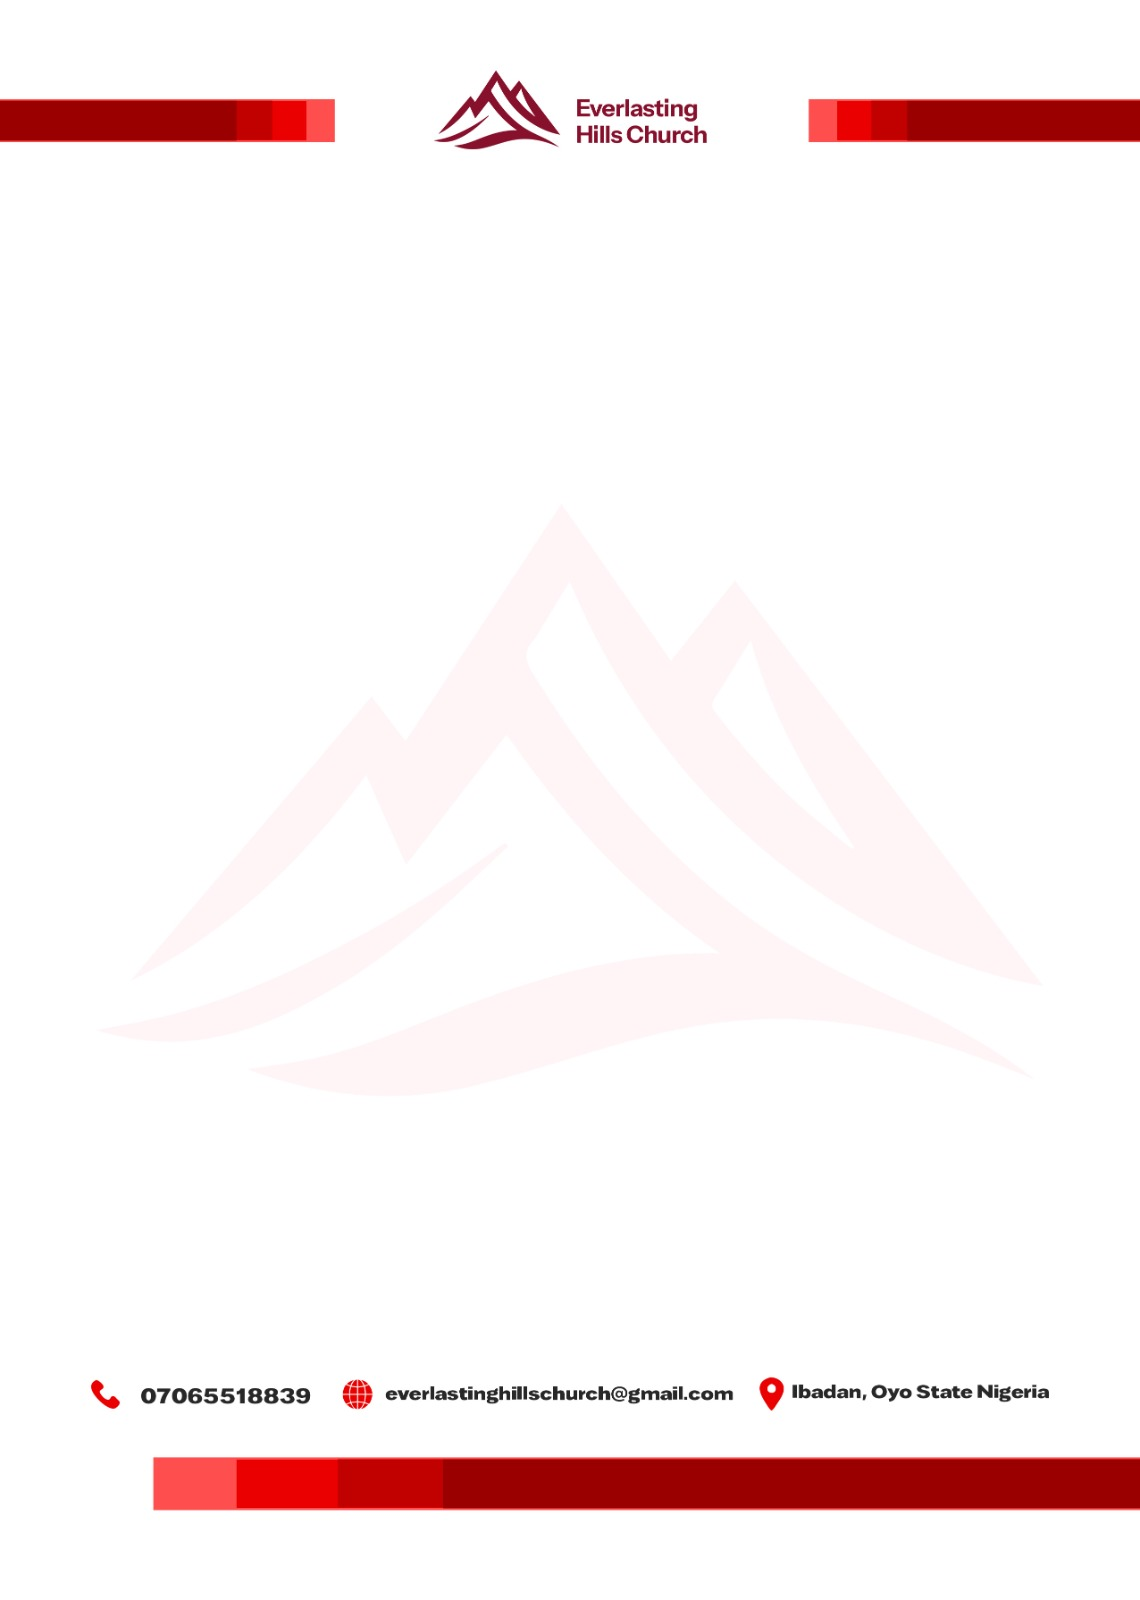
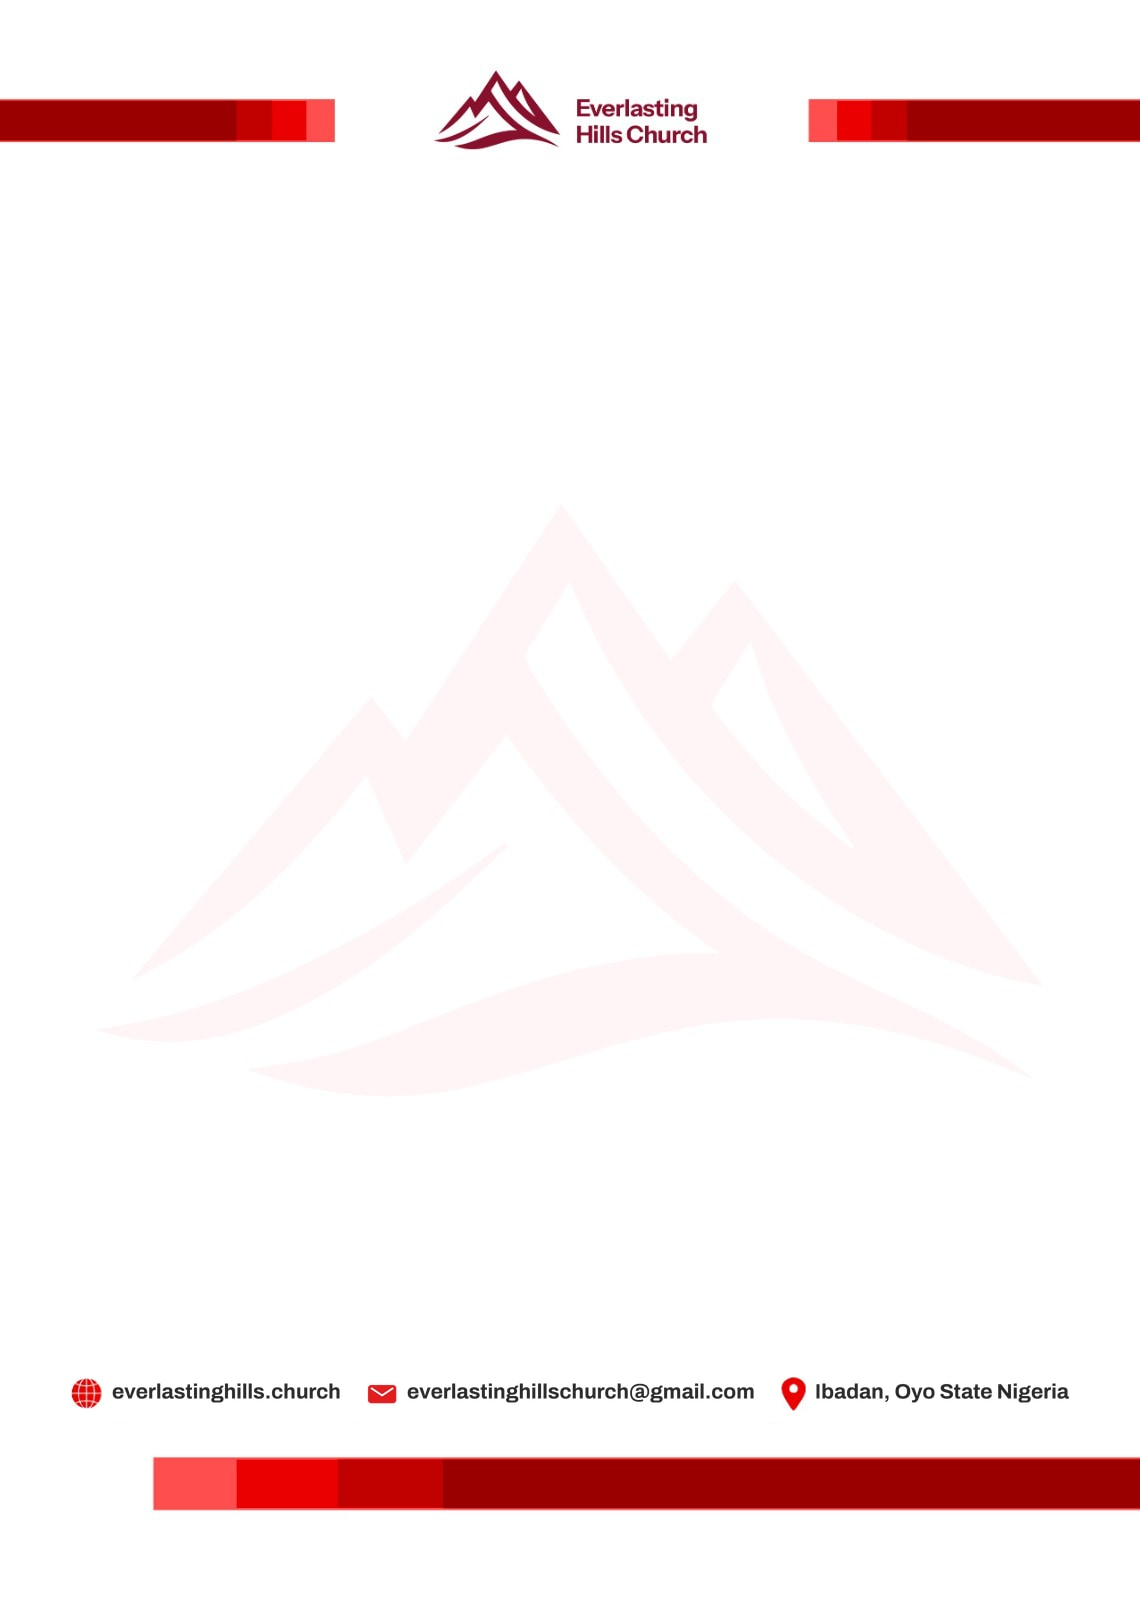
Pre-marital letters: the Senior Pastors' signed sign-off, the new letterhead, one page each
- Version 3 of both letters: version 2's wording, ending with "Yours in
  Christ", Pastor Opeyemi and Faith Peter's signature, and their names as
  Senior Pastors. A new signoff block keeps it on one page and draws the
  signature as large as the page allows (38 to 56 pt).
- The letterhead's footer now gives the website, email and location.
- The screening tests and laboratories run in two columns when every item
  fits on one line, so each letter fits on one page; the safe area's
  bottom follows the new footer (714 pt, the footer starts at 724.6 pt).
- An untouched, unapproved v1 or v2 seed is upgraded to v3 on start-up,
  still a draft for a Pastor to approve; edited or approved wording is
  left alone.
- The Letters editor can edit the sign-off's closing and lines.

Changed region(s): [[0.0614, 0.8438, 0.9211, 0.9062]]

diff --git a/ehc-backend/src/premarital/documents/letter-renderer.ts b/ehc-backend/src/premarital/documents/letter-renderer.ts
@@ -10,14 +10,16 @@ import { fill, type Block, type LetterVars } from './letter-blocks';
  * Builds the letters as PDFs on the EHC letterhead with pdf-lib (no browser).
  * The letterhead is a full-page background on every page; text stays inside
  * the safe area measured from the asset (header ink ends 78 pt from the top,
- * the footer contact line starts at 725 pt), so the footer details are never
- * typed again.
+ * the footer contact line starts at 724.6 pt, with the website since
+ * 2026-11-23), so the footer details are never typed again.
  */
 export const PAGE = { width: 595.28, height: 841.89 } as const;
 /** Measured from the letterhead: points from the top-left corner. */
-export const SAFE = { top: 106, bottom: 700, left: 56, right: 595.28 - 56 } as const;
+export const SAFE = { top: 106, bottom: 714, left: 56, right: 595.28 - 56 } as const;
 
 export const DEFAULT_LETTERHEAD = 'assets/letterhead/ehc-letterhead-a4.jpg';
+/** The Senior Pastors' signature (ink on transparency), drawn by the sign-off block. */
+export const SIGNATURE = 'assets/signature/senior-pastors.png';
 const FONT_DIR = 'assets/fonts';
 
 const INK = { r: 0.12, g: 0.12, b: 0.13 };
@@ -46,6 +48,7 @@ interface Assets {
   semibold: Buffer;
   italic: Buffer;
   serif: Buffer;
+  signature: Buffer;
 }
 type Glyphs = { hasGlyphForCodePoint(cp: number): boolean };
 interface Face {
@@ -79,14 +82,15 @@ export class LetterRenderer {
 
   private load(): Promise<Assets> {
     this.assets ??= (async () => {
-      const [letterhead, regular, semibold, italic, serif] = await Promise.all([
+      const [letterhead, regular, semibold, italic, serif, signature] = await Promise.all([
         readFile(this.letterheadPath),
         readFile(resolve(`${FONT_DIR}/InstrumentSans-Regular.ttf`)),
         readFile(resolve(`${FONT_DIR}/InstrumentSans-SemiBold.ttf`)),
         readFile(resolve(`${FONT_DIR}/InstrumentSans-Italic.ttf`)),
         readFile(resolve(`${FONT_DIR}/DMSerifDisplay-Regular.ttf`)),
+        readFile(resolve(SIGNATURE)),
       ]);
-      return { letterhead, isPng: letterhead[0] === 0x89, regular, semibold, italic, serif };
+      return { letterhead, isPng: letterhead[0] === 0x89, regular, semibold, italic, serif, signature };
     })().catch((err: unknown) => {
       this.assets = null;
       throw err;
@@ -111,6 +115,7 @@ export class LetterRenderer {
       face(a.serif),
     ]);
     const background: PDFImage = a.isPng ? await doc.embedPng(a.letterhead) : await doc.embedJpg(a.letterhead);
+    const signature: PDFImage = await doc.embedPng(a.signature);
     // No personal details in the file's own metadata.
     doc.setTitle(input.title);
     doc.setAuthor('Everlasting Hills Church');
@@ -250,23 +255,71 @@ export class LetterRenderer {
       y += o.after ?? 0;
     };
 
+    /**
+     * A numbered or bulleted list. Short items (each on one line at half the
+     * width) run in two columns, first half on the left, so a list of six
+     * tests takes three lines rather than six.
+     */
     const list = (items: string[], ordered: boolean) => {
       const indent = 18;
-      items.forEach((item, i) => {
-        const marker = ordered ? `${i + 1}.` : '•';
-        ensure(15);
+      const gap = 24;
+      const half = (SAFE.right - SAFE.left - gap) / 2;
+      const short = items.length > 2 || (items.length === 2 && !ordered);
+      const twoColumns =
+        short && items.every((item) => wrap(runsOf(fill(item, input.vars), regular, semibold), 10.5, half - indent).length === 1);
+      const draw = (item: string, i: number, x: number, width: number) => {
         const top = y;
-        page.drawText(marker, {
-          x: SAFE.left + 2,
-          y: PAGE.height - (y + 10.5),
-          size: 10.5,
-          font: regular.font,
-          color: color(INK),
+        page.drawText(ordered ? `${i + 1}.` : '•', { x: x + 2, y: PAGE.height - (y + 10.5), size: 10.5, font: regular.font, color: color(INK) });
+        mark(x + 2, x + 14, top, top + 13);
+        text(item, { x: x + indent, width: width - indent, after: 2 });
+      };
+      if (twoColumns) {
+        const rows = Math.ceil(items.length / 2);
+        ensure(rows * (10.5 * 1.45 + 2));
+        const start = y;
+        items.forEach((item, i) => {
+          const col = i < rows ? 0 : 1;
+          y = start + (i % rows) * (10.5 * 1.45 + 2);
+          draw(item, i, SAFE.left + col * (half + gap), half);
         });
-        mark(SAFE.left + 2, SAFE.left + 14, top, top + 13);
-        text(item, { x: SAFE.left + indent, width: SAFE.right - SAFE.left - indent, after: 2 });
-      });
+        y = start + rows * (10.5 * 1.45 + 2);
+      } else {
+        items.forEach((item, i) => {
+          ensure(15);
+          draw(item, i, SAFE.left, SAFE.right - SAFE.left);
+        });
+      }
       y += 6;
+    };
+
+    /**
+     * "Yours in Christ," the Senior Pastors' signature over a rule, then the
+     * names. Never split across pages. The signature is drawn as large as the
+     * page allows, from 56 pt (the letterhead design) down to 38 pt.
+     */
+    const SIG = { min: 38, max: 56, rule: 190, leading: 13, space: 6 };
+    const signoffHeight = (lines: string[], height = SIG.min) => 10.5 * 1.45 + 2 + height + 6 + lines.length * SIG.leading;
+    const signoff = (closing: string, lines: string[]) => {
+      ensure(signoffHeight(lines));
+      // Whatever room is left goes first to a little space above, then to a larger signature.
+      // (Less 3 pt, for the last line's descenders, which hang below its leading.)
+      const spare = Math.max(0, SAFE.bottom - y - signoffHeight(lines) - 3);
+      const space = Math.min(SIG.space, spare);
+      const height = Math.min(SIG.max, SIG.min + spare - space);
+      y += space;
+      text(closing, { after: 2 });
+      const width = height * (signature.width / signature.height);
+      page.drawImage(signature, { x: SAFE.left, y: PAGE.height - (y + height), width, height });
+      mark(SAFE.left, SAFE.left + width, y, y + height);
+      y += height + 2;
+      page.drawLine({ start: { x: SAFE.left, y: PAGE.height - y }, end: { x: SAFE.left + SIG.rule, y: PAGE.height - y }, thickness: 0.6, color: color(RULE) });
+      mark(SAFE.left, SAFE.left + SIG.rule, y - 1, y + 1);
+      y += 4;
+      for (const line of lines) {
+        if (line === '') y += SIG.leading;
+        else text(line, { leading: SIG.leading });
+      }
+      y += 4;
     };
 
     const signatureColumns = (columns: { heading: string; subheading: string; fields: string[] }[]) => {
@@ -306,13 +359,13 @@ export class LetterRenderer {
     };
 
     /** Height of a paragraph and of a sign-off, to keep a closing paragraph and the sign-off on one page. */
-    const paragraphHeight = (raw: string) => wrap(runsOf(fill(raw, input.vars), regular, semibold), 10.5, SAFE.right - SAFE.left).length * 10.5 * 1.45 + 8;
+    const paragraphHeight = (raw: string) => wrap(runsOf(fill(raw, input.vars), regular, semibold), 10.5, SAFE.right - SAFE.left).length * 10.5 * 1.45 + 7;
     const linesHeight = (lines: string[]) => lines.reduce((h, l) => h + (l === '' ? 15 : 10.5 * 1.45), 8);
 
     input.blocks.forEach((b, i) => {
       const next = input.blocks[i + 1];
-      if (b.type === 'paragraph' && next?.type === 'lines') {
-        const together = paragraphHeight(b.text) + linesHeight(next.lines);
+      if (b.type === 'paragraph' && (next?.type === 'lines' || next?.type === 'signoff')) {
+        const together = paragraphHeight(b.text) + (next.type === 'lines' ? linesHeight(next.lines) : signoffHeight(next.lines));
         if (!fits(together) && together <= SAFE.bottom - SAFE.top) newPage();
       }
       switch (b.type) {
@@ -333,12 +386,12 @@ export class LetterRenderer {
           text(b.text, { size: 10, leading: 14, base: semibold, align: 'center', ink: SOFT, after: 14 });
           break;
         case 'heading':
-          y += 4;
+          y += 2;
           ensure(15 * 2);
           text(b.text, { base: semibold, ink: BRAND, after: 3 });
           break;
         case 'paragraph':
-          text(b.text, { after: 8 });
+          text(b.text, { after: 7 });
           break;
         case 'note':
           text(b.text, { size: 9.5, leading: 13.5, base: italic, bold: italic, ink: SOFT, after: 4 });
@@ -367,6 +420,9 @@ export class LetterRenderer {
           break;
         case 'signatureColumns':
           signatureColumns(b.columns);
+          break;
+        case 'signoff':
+          signoff(b.closing, b.lines);
           break;
       }
     });

diff --git a/ehc-backend/src/premarital/documents/letter-blocks.ts b/ehc-backend/src/premarital/documents/letter-blocks.ts
@@ -72,6 +72,8 @@ export const blockSchema = z.discriminatedUnion('type', [
   z.object({ type: z.literal('testList') }),
   /** The recommended laboratories from the settings. */
   z.object({ type: z.literal('labList') }),
+  /** The closing, the Senior Pastors' signature image, then the lines under it (names, office). Kept on one page. */
+  z.object({ type: z.literal('signoff'), closing: text(120), lines: z.array(optionalLine).min(1).max(6) }),
   /** Signature blocks: one, or two side by side. */
   z.object({
     type: z.literal('signatureColumns'),
@@ -102,6 +104,8 @@ export function textsOf(blocks: Block[]): string[] {
         return b.items;
       case 'signatureColumns':
         return b.columns.flatMap((c) => [c.heading, c.subheading, ...c.fields]);
+      case 'signoff':
+        return [b.closing, ...b.lines];
       case 'testList':
       case 'labList':
         return [];
@@ -198,7 +202,7 @@ export const SEED_BODIES_V1: Record<CounsellingLetterKind, Block[]> = {
  * their father, mother or a recognised guardian. Everything is returned on
  * the website.
  */
-export const SEED_BODIES: Record<CounsellingLetterKind, Block[]> = {
+export const SEED_BODIES_V2: Record<CounsellingLetterKind, Block[]> = {
   PARENTAL_CONSENT: [
     REF,
     { type: 'title', text: 'PARENTAL CONSENT AND BLESSING' },
@@ -256,5 +260,71 @@ export const SEED_BODIES: Record<CounsellingLetterKind, Block[]> = {
       text: 'Your results will be treated as strictly confidential and seen only by the pastorate of Everlasting Hills Church. The church will not share your results with your partner. We encourage you to share your results with each other openly, as an act of trust. Where needed, your pastor will meet with you privately and may recommend further medical advice.',
     },
     { type: 'lines', lines: ['Yours in Christ,', '', '', '____________________', 'Marriage & Family Ministry', 'Everlasting Hills Church'] },
+  ],
+};
+
+/**
+ * Version 3 (2026-11-23): version 2's wording, signed off by the Senior
+ * Pastors with their signature, on the letterhead with the website in the footer.
+ */
+export const SEED_BODIES: Record<CounsellingLetterKind, Block[]> = {
+  PARENTAL_CONSENT: [
+    REF,
+    { type: 'title', text: 'PARENTAL CONSENT AND BLESSING' },
+    { type: 'subtitle', text: 'Marriage & Family Ministry, Pre-Marital Counselling' },
+    { type: 'lines', lines: ['To the Pastor,', 'Everlasting Hills Church'] },
+    {
+      type: 'paragraph',
+      text: 'I, the undersigned, am a parent or guardian of **{personName}**, the {personRole}. I confirm that I am aware of their intention to be joined in marriage to **{partnerName}**.',
+    },
+    {
+      type: 'paragraph',
+      text: "I give my consent and blessing to this union, and I support {personName}'s participation in the Pre-Marital Counselling programme of Everlasting Hills Church as they prepare for a marriage that honours God.",
+    },
+    {
+      type: 'signatureColumns',
+      columns: [
+        {
+          heading: 'Parent or guardian of the {personRole}',
+          subheading: '({personName})',
+          fields: ['Full name', 'Relationship (father, mother or guardian)', 'Phone', 'Signature', 'Date'],
+        },
+      ],
+    },
+    { type: 'note', text: 'One signature is enough: the father, the mother or a recognised guardian. {returnInstructions}' },
+    { type: 'signoff', closing: 'Yours in Christ,', lines: ['**Pastor Opeyemi and Faith Peter**', 'Senior Pastors', 'Everlasting Hills Church'] },
+  ],
+  MEDICAL_SCREENING: [
+    REF,
+    { type: 'title', text: 'PRE-MARITAL MEDICAL SCREENING REQUIREMENT' },
+    { type: 'paragraph', text: 'Dear {personName},' },
+    {
+      type: 'paragraph',
+      text: "Thank you for applying for Pre-Marital Counselling at Everlasting Hills Church. As part of your preparation, you are required to complete the medical screening below and upload your medical screening certificate. Your counselling cannot be completed until your certificate and your partner's have been received.",
+    },
+    { type: 'heading', text: 'Required tests' },
+    { type: 'testList' },
+    { type: 'heading', text: 'Validity' },
+    {
+      type: 'paragraph',
+      text: 'Tests must be carried out within one month of your application date ({applicationDate}). We cannot accept results dated before {validFromDate}.',
+    },
+    { type: 'heading', text: 'Where to test' },
+    {
+      type: 'paragraph',
+      text: 'You may use any licensed hospital or diagnostic laboratory. For convenience, we recommend:',
+    },
+    { type: 'labList' },
+    {
+      type: 'paragraph',
+      text: 'Everlasting Hills Church has no partnership or commercial arrangement with these facilities, and you are free to use any licensed facility of your choice.',
+    },
+    { type: 'heading', text: 'Submission and confidentiality' },
+    { type: 'paragraph', text: '{returnInstructions}' },
+    {
+      type: 'paragraph',
+      text: 'Your results will be treated as strictly confidential and seen only by the pastorate of Everlasting Hills Church. The church will not share your results with your partner. We encourage you to share your results with each other openly, as an act of trust. Where needed, your pastor will meet with you privately and may recommend further medical advice.',
+    },
+    { type: 'signoff', closing: 'Yours in Christ,', lines: ['**Pastor Opeyemi and Faith Peter**', 'Senior Pastors', 'Everlasting Hills Church'] },
   ],
 };

diff --git a/ehc-backend/src/premarital/documents/documents-units.spec.ts b/ehc-backend/src/premarital/documents/documents-units.spec.ts
@@ -6,7 +6,7 @@ import { DEFAULT_DOCUMENTS_CONFIG, readDocumentsConfig, valuesOf } from './docum
 import { DocumentCrypto } from './document-crypto';
 import { coupleOf, isMedical, kindsOf, letterRef, letterVars, longDate, mayOpen, mayReview, maySeeRow, mayUpload, REQUIREMENT_KINDS, roleOf, validFrom } from './document-rules';
 import { SAMPLE_VARS } from './document-letters.service';
-import { blocksSchema, fill, placeholderProblems, SEED_BODIES, SEED_BODIES_V1, textsOf } from './letter-blocks';
+import { blocksSchema, fill, placeholderProblems, SEED_BODIES, SEED_BODIES_V1, SEED_BODIES_V2, textsOf } from './letter-blocks';
 import { LetterRenderer, SAFE } from './letter-renderer';
 import { detectType, UploadInspector } from './upload-inspector';
 
@@ -85,6 +85,30 @@ describe('counselling letters', () => {
     expect(out.pageCount).toBe(1);
     expect(out.bounds.right).toBeLessThanOrEqual(SAFE.right + 0.01);
     expect(out.bounds.bottom).toBeLessThanOrEqual(SAFE.bottom);
+  });
+
+  it('signs both letters off from the Senior Pastors, with their signature, where v2 had a blank line', () => {
+    for (const kind of ['PARENTAL_CONSENT', 'MEDICAL_SCREENING'] as const) {
+      const last = SEED_BODIES[kind].at(-1);
+      expect(last).toEqual({ type: 'signoff', closing: 'Yours in Christ,', lines: ['**Pastor Opeyemi and Faith Peter**', 'Senior Pastors', 'Everlasting Hills Church'] });
+      expect(blocksSchema.safeParse(SEED_BODIES[kind]).success).toBe(true);
+      expect(SEED_BODIES_V2[kind].some((b) => b.type === 'signoff')).toBe(false);
+      // Otherwise the wording is version 2's: the same blocks, in order, before the sign-off.
+      const withoutSignoff = SEED_BODIES[kind].filter((b) => b.type !== 'signoff');
+      const v2 = SEED_BODIES_V2[kind].filter((b) => !(b.type === 'lines' && b.lines.includes('Marriage & Family Ministry')));
+      expect(withoutSignoff).toEqual(v2);
+    }
+  });
+
+  it('fits each signed letter on one page, the tests and laboratories in two columns', async () => {
+    for (const kind of ['PARENTAL_CONSENT', 'MEDICAL_SCREENING'] as const) {
+      const out = await render(kind);
+      expect(out.pageCount).toBe(1);
+      expect(out.bounds.bottom).toBeLessThanOrEqual(SAFE.bottom);
+    }
+    // Six tests take three rows: the tests block is no taller than three list lines.
+    const tests = await renderer.render({ title: 'Letter', blocks: [{ type: 'testList' }], vars: SAMPLE_VARS, tests: s.screeningTests, labs: s.recommendedLabs });
+    expect(tests.bounds.bottom - tests.bounds.top).toBeLessThan(3 * 10.5 * 1.45 + 6);
   });
 });
 

diff --git a/ehc-backend/src/premarital/documents/document-letters.service.ts b/ehc-backend/src/premarital/documents/document-letters.service.ts
@@ -9,7 +9,7 @@ import { CaseAccess, notFound } from '../case-access';
 import { counsellingAudit } from '../counselling-audit';
 import { DocumentsConfigService, type DocumentsSettings } from './documents-config';
 import { lagosDay, letterVars } from './document-rules';
-import { blocksSchema, SEED_BODIES, SEED_BODIES_V1, type Block, type LetterVars } from './letter-blocks';
+import { blocksSchema, SEED_BODIES, SEED_BODIES_V1, SEED_BODIES_V2, type Block, type LetterVars } from './letter-blocks';
 import { LetterRenderer } from './letter-renderer';
 
 export const LETTER_KINDS: readonly CounsellingLetterKind[] = ['PARENTAL_CONSENT', 'MEDICAL_SCREENING'];
@@ -94,14 +94,16 @@ export class DocumentLettersService implements OnModuleInit {
   }
 
   /**
-   * The shared v1 letter became one letter per partner (2026-11-21). Where the
-   * active version is still the untouched, unapproved v1 seed, the new wording
+   * The shared v1 letter became one letter per partner (2026-11-21), and v3
+   * added the Senior Pastors' signed sign-off (2026-11-23). Where the active
+   * version is still an untouched, unapproved earlier seed, the newest wording
    * is added as the next version and sent from now on (still a draft for a
    * Pastor to approve). Anything a person wrote or approved is left alone.
    */
   private async upgradeSeed(tenantId: string, kind: CounsellingLetterKind) {
     const active = await this.prisma.counsellingDocumentTemplate.findFirst({ where: { tenantId, kind, active: true } });
-    if (!active || active.approvalState !== 'DRAFT' || canonical(active.body) !== canonical(SEED_BODIES_V1[kind])) return;
+    const untouched = [SEED_BODIES_V1[kind], SEED_BODIES_V2[kind]].some((seed) => canonical(active?.body) === canonical(seed));
+    if (!active || active.approvalState !== 'DRAFT' || !untouched) return;
     await this.prisma
       .$transaction(async (tx) => {
         const last = await tx.counsellingDocumentTemplate.findFirst({ where: { tenantId, kind }, orderBy: { version: 'desc' }, select: { version: true } });

diff --git a/everlasting-hills-church/components/dashboard/marriage/letters/BlockEditor.tsx b/everlasting-hills-church/components/dashboard/marriage/letters/BlockEditor.tsx
@@ -18,6 +18,7 @@ const NAMES: Record<string, string> = {
   testList: "The screening tests",
   labList: "The recommended laboratories",
   signatureColumns: "Signature blocks",
+  signoff: "Sign-off with the Senior Pastors' signature",
 };
 const PLACEHOLDERS = "{personName} (the partner the letter is for) {personRole} {partnerName} {applicationRef} {issueDate} {groomName} {brideName} {applicationDate} {validFromDate} {returnInstructions}";
 
@@ -62,7 +63,13 @@ export function BlockEditor({ template, onDone }: { template: LetterTemplate; on
               {area(i, "right", b.right as string, 1)}
             </>
           )}
-          {b.type === "lines" && linesArea(i, "lines")}
+          {b.type === "signoff" && (
+            <>
+              {area(i, "closing", b.closing as string, 1)}
+              <p className="mt-2 text-xs text-gray-600 dark:text-white/55">The signature goes here, then these lines (one per line):</p>
+            </>
+          )}
+          {(b.type === "lines" || b.type === "signoff") && linesArea(i, "lines")}
           {b.type === "list" && linesArea(i, "items")}
           {(b.type === "testList" || b.type === "labList") && <p className="mt-1 text-xs text-gray-600 dark:text-white/55">Filled in from the documents settings.</p>}
           {b.type === "signatureColumns" && <p className="mt-1 text-xs text-gray-600 dark:text-white/55">The signature block (one, or two side by side). Its wording is fixed in this version.</p>}
